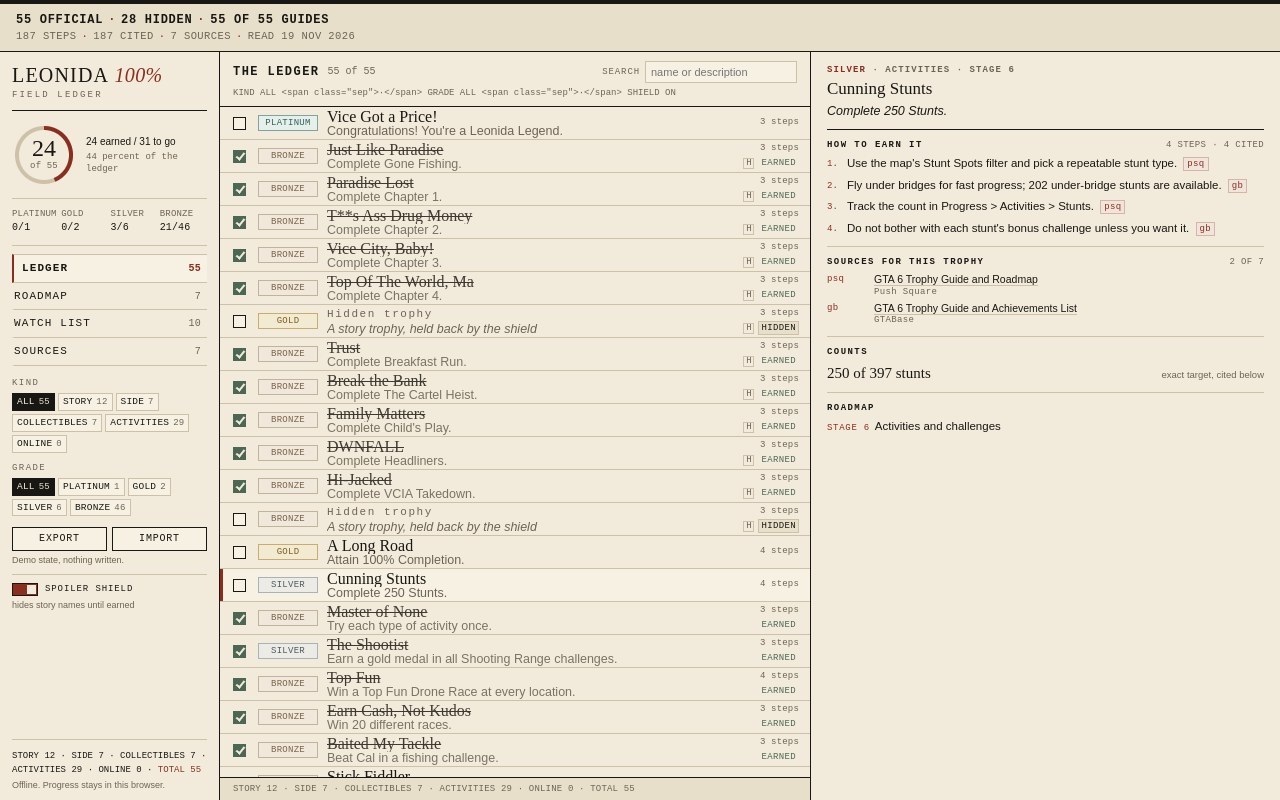
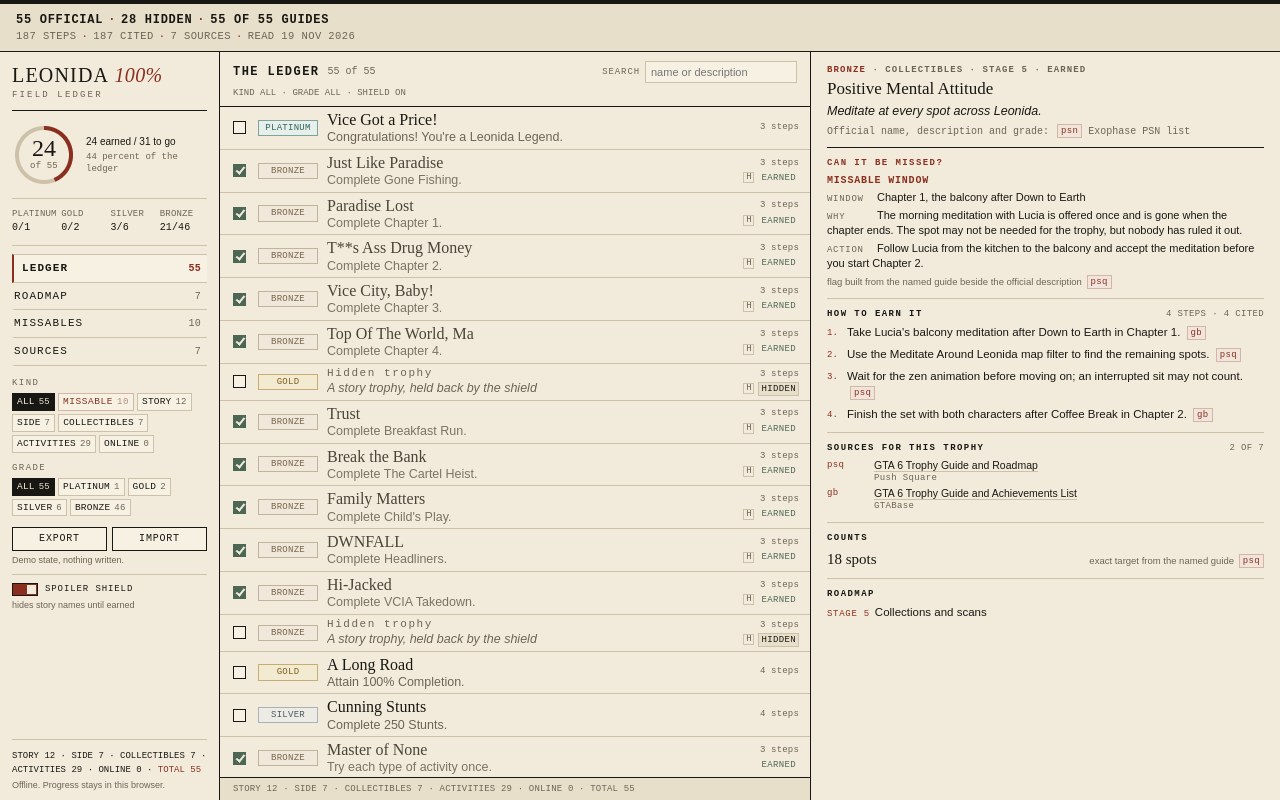
Cite every fact, answer missability per trophy, and load the app lighter
Per-fact source chips on the official line, count line and steps; a MISSABLE
filter chip and a Missables view with window, reason and action for each of the
ten watch rows; export and import pinned in the rail; shots.js loaded only for
captures; refreshed screenshots.

diff --git a/app/js/views.js b/app/js/views.js
@@ -38,13 +38,14 @@ function ringSvg(earned, total) {
 }
 
 /** The rail's chips: a computed count on each, the active one filled. */
-function chipRow(model, state, keys, group) {
+function chipRow(model, state, keys, group, afterAll = '') {
   const total = model.figures.total;
   const chips = [`all`].concat(keys).map((key) => {
     const active = state[group] === key;
     const label = key === 'all' ? 'ALL' : group === 'kind' ? kindLabel(key) : gradeLabel(key);
     const count = key === 'all' ? total : group === 'kind' ? model.figures.byKind[key] || 0 : model.figures.byGrade[key] || 0;
-    return `<button class="chip${active ? ' active' : ''}" type="button" data-act="${group}" data-value="${esc(key)}">${esc(label)}<span class="chip-n">${count}</span></button>`;
+    const chip = `<button class="chip${active ? ' active' : ''}" type="button" data-act="${group}" data-value="${esc(key)}">${esc(label)}<span class="chip-n">${count}</span></button>`;
+    return key === 'all' ? chip + afterAll : chip;
   });
   return chips.join('');
 }
@@ -67,12 +68,15 @@ export function renderRail(model, state, shown) {
     `<span class="kind-total">TOTAL ${total}</span>`
   ].join(` ${SEP} `);
 
+  const watchCount = model.trophies.filter((trophy) => model.watchByTrophy.has(trophy.name)).length;
+  const missableChip = `<button class="chip chip-missable${state.missable ? ' active' : ''}" type="button" data-act="missable">MISSABLE<span class="chip-n">${watchCount}</span></button>`;
+
   return {
     ring: ringSvg(earned, total),
     progressLine: `${earned} earned / ${total - earned} to go`,
     progressOpen: `${percent(earned, total)} percent of the ledger`,
     tallies,
-    kindChips: chipRow(model, state, ['story', 'side', 'collectibles', 'activities', 'online'], 'kind'),
+    kindChips: chipRow(model, state, ['story', 'side', 'collectibles', 'activities', 'online'], 'kind', missableChip),
     gradeChips: chipRow(model, state, ['platinum', 'gold', 'silver', 'bronze'], 'grade'),
     kindLine,
     shown,
@@ -132,9 +136,10 @@ export function ledgerFoot(model) {
 
 export function activeLine(state) {
   const parts = [`KIND ${state.kind.toUpperCase()}`, `GRADE ${state.grade.toUpperCase()}`];
+  if (state.missable) parts.push('MISSABLE');
   if (state.q.trim() !== '') parts.push(`SEARCH ${state.q.trim().toUpperCase()}`);
   parts.push(state.spoiler ? 'SHIELD ON' : 'SHIELD OFF');
-  return parts.join(` ${SEP} `);
+  return parts.join(' \u00b7 ');
 }
 
 function sourceRow(model, id) {
@@ -150,15 +155,47 @@ function sourceRow(model, id) {
   ].join('');
 }
 
+/** The guide that carries a fact: psq first, then gb, then the caller's fallback. */
+function guideId(trophy, fallback = 'gb') {
+  const sources = trophy.sources || [];
+  if (sources.includes('psq')) return 'psq';
+  if (sources.includes('gb')) return 'gb';
+  if (fallback === 'first') return sources[0] || 'gb';
+  return fallback;
+}
+
 function countSection(trophy) {
   const label = trophy.count ? esc(trophy.count) : 'Not yet confirmed';
   const note = trophy.count
-    ? 'exact target, cited below'
+    ? `exact target from the named guide <span class="src-chip">${esc(guideId(trophy, 'psnp'))}</span>`
     : `no number in the captured sources <span class="src-chip">${esc(trophy.sources[0] || 'gb')}</span>`;
   return [
     '<div class="section">',
     '<h3 class="section-title">COUNTS</h3>',
     `<div class="count-block"><span class="count-value">${label}</span><span class="count-note">${note}</span></div>`,
+    '</div>'
+  ].join('');
+}
+
+/** The one-line missable answer, with the named guide it was drawn from. */
+function missableSection(trophy, watch) {
+  if (watch) {
+    return [
+      '<div class="section missable-section">',
+      '<h3 class="section-title">CAN IT BE MISSED?</h3>',
+      '<p class="missable-answer">MISSABLE WINDOW</p>',
+      `<p class="missable-row"><span class="missable-key">WINDOW</span>${esc(watch.window)}</p>`,
+      `<p class="missable-row"><span class="missable-key">WHY</span>${esc(watch.why)}</p>`,
+      `<p class="missable-row"><span class="missable-key">ACTION</span>${esc(watch.action)}</p>`,
+      `<p class="missable-source">flag built from the named guide beside the official description <span class="src-chip">${esc(guideId(trophy, 'gb'))}</span></p>`,
+      '</div>'
+    ].join('');
+  }
+  return [
+    '<div class="section missable-section">',
+    '<h3 class="section-title">CAN IT BE MISSED?</h3>',
+    '<p class="missable-answer quiet">No missable window in the official description. <span class="src-chip">psn</span></p>',
+    '<p class="missable-source">Check the window before the chapter ends if a guide adds one later.</p>',
     '</div>'
   ].join('');
 }
@@ -216,7 +253,9 @@ export function renderDetail(model, state, rows) {
     `<p class="eyebrow"><span class="say-grade">${gradeLabel(trophy.grade)}</span> ${SEP} ${kindLabel(trophy.kind)} ${SEP} STAGE ${trophy.stage}${earned ? ` ${SEP} EARNED` : ''}</p>`,
     `<h2 class="trophy-name">${esc(trophy.name)}</h2>`,
     `<p class="trophy-desc">${esc(trophy.description)}</p>`,
+    '<p class="fact-line">Official name, description and grade: <span class="src-chip">psn</span> Exophase PSN list</p>',
     '</header>',
+    missableSection(trophy, watch),
     '<div class="section">',
     `<h3 class="section-title">HOW TO EARN IT<span class="aside">${trophy.steps.length} STEPS ${SEP} ${cited} CITED</span></h3>`,
     `<ol class="steps">${steps}</ol>`,
@@ -226,17 +265,6 @@ export function renderDetail(model, state, rows) {
     `<div class="src-rows">${sources}</div>`,
     '</div>'
   ];
-
-  if (watch) {
-    parts.push(
-      '<div class="section"><div class="watch-block">',
-      '<p class="watch-title">WHEN TO WATCH</p>',
-      `<p class="watch-row"><span class="watch-key">WINDOW</span>${esc(watch.window)}</p>`,
-      `<p class="watch-row"><span class="watch-key">WHY</span>${esc(watch.why)}</p>`,
-      `<p class="watch-row"><span class="watch-key">ACTION</span>${esc(watch.action)}</p>`,
-      '</div></div>'
-    );
-  }
 
   parts.push(countSection(trophy));
   parts.push(roadmapSection(model, trophy));
@@ -285,23 +313,24 @@ export function renderWatch(model, state) {
     return [
       '<tr>',
       `<td class="cell-name">${esc(row.name)}</td>`,
-      `<td class="cell-status${missable ? ' hot' : ''}">${missable ? 'POSSIBLY MISSABLE' : 'EASY TO LOSE TRACK'}</td>`,
+      `<td class="cell-status${missable ? ' hot' : ''}">${missable ? 'POSSIBLY MISSABLE' : 'AT RISK'}</td>`,
       `<td class="cell-window">${esc(row.window)}</td>`,
       `<td>${esc(row.why)}</td>`,
       `<td>${esc(row.action)}</td>`,
+      `<td class="cell-source"><span class="src-chip">${esc(guideId(row.trophy || { sources: [] }, 'first'))}</span></td>`,
       '</tr>'
     ].join('');
   }).join('');
 
   return [
     '<div class="view-head">',
-    '<h2 class="view-title">Watch list</h2>',
-    `<p class="view-note">${model.watch.length} FLAGS ${SEP} ${model.figures.total} TROPHIES</p>`,
+    '<h2 class="view-title">Missable trophies</h2>',
+    `<p class="view-note">${model.watch.length} FLAGS ${SEP} 1 POSSIBLY MISSABLE ${SEP} 9 AT RISK</p>`,
     '</div>',
     '<p class="view-lede">One of the ten is possibly missable and the other nine are easy to lose track of. The official descriptions mark no trophy as missable, so these are watch flags rather than confirmed misses.</p>',
     '<table class="ledger-table">',
-    '<colgroup><col style="width:17.6%"><col style="width:9%"><col style="width:17.4%"><col style="width:27%"><col style="width:29%"></colgroup>',
-    '<thead><tr><th>Trophy</th><th>Status</th><th>Window</th><th>Why it is easy to miss</th><th>What to do</th></tr></thead>',
+    '<colgroup><col style="width:15.5%"><col style="width:11.5%"><col style="width:15%"><col style="width:24%"><col style="width:25%"><col style="width:9%"></colgroup>',
+    '<thead><tr><th>Trophy</th><th>Status</th><th>Window</th><th>Why it is easy to miss</th><th>What to do</th><th>Source</th></tr></thead>',
     `<tbody>${rows}</tbody>`,
     '</table>',
     '<p class="view-foot">Status follows the missable flag in the trophy data. Names join the ledger by exact official spelling.</p>'

diff --git a/app/style.css b/app/style.css
@@ -151,7 +151,7 @@ body.mode-full .ledger { display: none; }
 }
 .nav-row.active .nav-count { color: var(--accent); }
 
-.filters { padding: 11px 0 0; }
+.filters { padding: 11px 0 0; flex: none; }
 .filter-row { margin-bottom: 9px; }
 .filter-label {
   font-family: var(--mono); font-size: 9px; letter-spacing: 0.16em;
@@ -168,8 +168,12 @@ body.mode-full .ledger { display: none; }
 .chip .chip-n { font-size: 9px; color: var(--muted); }
 .chip.active { background: var(--ink); color: var(--paper); border-color: var(--ink); }
 .chip.active .chip-n { color: var(--paper-sunk); }
+.chip.chip-missable { color: var(--accent); border-color: #d3b6a8; letter-spacing: 0.06em; }
+.chip.chip-missable .chip-n { color: #b08a7c; }
+.chip.chip-missable.active { color: var(--paper); border-color: var(--ink); }
+.chip.chip-missable.active .chip-n { color: var(--paper-sunk); }
 
-.io { padding: 2px 0 0; }
+.io { padding: 2px 0 0; flex: none; }
 .io-buttons { display: flex; gap: 5px; }
 .io-btn {
   flex: 1; font-family: var(--mono); font-size: 10px; letter-spacing: 0.08em;
@@ -181,7 +185,7 @@ body.mode-full .ledger { display: none; }
 .io-status { font-size: 9px; color: var(--muted); margin-top: 4px; min-height: 12px; line-height: 1.25; }
 .io-status.bad { color: var(--accent); }
 
-.spoiler { border-top: 1px solid var(--rule); margin-top: 7px; padding-top: 8px; }
+.spoiler { border-top: 1px solid var(--rule); margin-top: 7px; padding-top: 8px; flex: none; }
 .switch { display: flex; align-items: center; gap: 7px; width: 100%; }
 .switch-track {
   width: 26px; height: 13px; border: 1px solid var(--ink);
@@ -238,8 +242,8 @@ body.mode-full .ledger { display: none; }
   grid-template-columns: 16px 60px minmax(0, 1fr) 104px;
   align-items: center;
   gap: 0 9px;
-  height: var(--row-h);
-  padding: 0 11px 0 13px;
+  min-height: var(--row-h);
+  padding: 3px 11px 3px 13px;
   border-bottom: 1px solid var(--rule);
   cursor: pointer;
   position: relative;
@@ -278,17 +282,18 @@ body.mode-full .ledger { display: none; }
 .row-text { display: block; min-width: 0; overflow: hidden; }
 .row-name {
   display: block;
-  font-family: var(--display); font-size: 16px; line-height: 17px;
+  font-family: var(--display); font-size: 16px; line-height: 1.2;
+  margin-bottom: 1px;
   white-space: nowrap; overflow: hidden; text-overflow: ellipsis;
 }
 .row-desc {
   display: block;
-  font-size: 12.5px; line-height: 13px; color: var(--muted);
+  font-size: 12.5px; line-height: 1.25; color: var(--muted);
   white-space: nowrap; overflow: hidden; text-overflow: ellipsis;
 }
 .row.masked .row-name { font-family: var(--mono); font-size: 11px; letter-spacing: 0.14em; color: var(--muted); }
 .row.masked .row-desc { font-style: italic; }
-.row.earned .row-name { text-decoration: line-through; text-decoration-thickness: 1px; color: #3f3a31; }
+.row.earned .row-name { color: #4a4438; }
 .row.earned .row-desc { color: #7a7263; }
 
 .row-meta { display: flex; flex-direction: column; align-items: flex-end; gap: 2px; min-width: 0; }
@@ -357,6 +362,29 @@ body.mode-full .ledger { display: none; }
   white-space: nowrap; margin-left: 3px; letter-spacing: 0.04em;
   display: inline-block; line-height: 12px; vertical-align: 1px;
 }
+
+.fact-line {
+  font-family: var(--mono); font-size: 10px; color: var(--muted);
+  line-height: 1.3; margin-top: 4px;
+}
+.fact-line .src-chip { margin-left: 2px; }
+
+.missable-section .section-title { color: var(--accent); }
+.missable-answer {
+  font-family: var(--mono); font-size: 10px; font-weight: 700;
+  letter-spacing: 0.08em; color: var(--accent); margin-bottom: 3px;
+}
+.missable-answer.quiet {
+  font-family: var(--body); font-size: 11px; font-weight: 400;
+  letter-spacing: 0; color: var(--muted);
+}
+.missable-row { font-size: 11px; line-height: 1.35; margin-bottom: 3px; }
+.missable-key {
+  font-family: var(--mono); font-size: 9px; letter-spacing: 0.08em;
+  color: var(--muted); display: inline-block; min-width: 50px;
+}
+.missable-source { font-size: 9.5px; color: var(--muted); line-height: 1.3; margin-top: 4px; }
+.missable-source .src-chip { margin-left: 2px; }
 
 .src-rows { display: flex; flex-direction: column; gap: 3px; }
 .src-row { font-size: 10.5px; line-height: 1.3; display: grid; grid-template-columns: 42px minmax(0, 1fr); gap: 5px; }
@@ -464,7 +492,7 @@ body.mode-full .ledger { display: none; }
 }
 .ledger-table tr:last-child td { border-bottom: 1px solid var(--ink); }
 .ledger-table .cell-name { font-family: var(--display); font-size: 12.5px; line-height: 1.2; }
-.ledger-table .cell-status { font-family: var(--mono); font-size: 9px; letter-spacing: 0.06em; text-transform: uppercase; }
+.ledger-table .cell-status { font-family: var(--mono); font-size: 9px; letter-spacing: 0.06em; text-transform: uppercase; white-space: nowrap; }
 .ledger-table .cell-status.hot { color: var(--accent); }
 .ledger-table .cell-window { font-family: var(--mono); font-size: 9.5px; color: var(--muted); line-height: 1.35; }
 .ledger-table .cell-id { font-family: var(--mono); font-size: 9px; color: var(--accent); letter-spacing: 0.04em; }
@@ -472,6 +500,7 @@ body.mode-full .ledger { display: none; }
 .ledger-table .cell-url a { border-bottom-color: var(--rule); }
 .ledger-table .cell-count { font-family: var(--mono); font-size: 9.5px; text-align: right; white-space: nowrap; }
 .ledger-table .cell-support { font-size: 10.5px; }
+.ledger-table .cell-source { white-space: nowrap; }
 .cell-pub { display: block; font-family: var(--mono); font-size: 9px; color: var(--muted); letter-spacing: 0.04em; margin-top: 1px; }
 
 @media print {

diff --git a/app/js/app.js b/app/js/app.js
@@ -14,8 +14,6 @@ import {
   renderSources
 } from './views.js';
 import { readProgress, writeProgress, parseImport, downloadExport } from './store.js';
-import { applyPreset } from './shots.js';
-import { writeProbe } from './probe.js';
 
 const state = {
   view: 'ledger',
@@ -24,6 +22,7 @@ const state = {
   q: '',
   selected: 0,
   spoiler: true,
+  missable: false,
   earned: new Set(),
   revealed: 0,
   demo: false
@@ -165,6 +164,9 @@ function wire() {
     } else if (act === 'view') {
       state.view = hit.dataset.view;
       render();
+    } else if (act === 'missable') {
+      state.missable = !state.missable;
+      render();
     } else if (act === 'spoiler') {
       state.spoiler = !state.spoiler;
       state.revealed = 0;
@@ -215,7 +217,11 @@ async function boot() {
     return;
   }
   const preset = params.get('shot');
-  const applied = preset ? applyPreset(preset, model, state) : false;
+  let applied = false;
+  if (preset) {
+    const { applyPreset } = await import('./shots.js');
+    applied = applyPreset(preset, model, state);
+  }
   if (!applied) {
     state.earned = new Set(readProgress(model.trophies));
     state.selected = model.trophies.length > 0 ? model.trophies[0].id : 0;
@@ -224,7 +230,6 @@ async function boot() {
   setStatus(state.demo ? 'Demo state, nothing written.' : 'Progress saved in this browser.');
   wire();
   render();
-  if (params.has('probe')) requestAnimationFrame(() => writeProbe(model, state));
 }
 
 boot();

diff --git a/app/js/shots.js b/app/js/shots.js
@@ -47,8 +47,9 @@ export const PRESETS = {
     kind: 'all',
     grade: 'all',
     query: '',
-    select: 'Cunning Stunts',
-    spoiler: true
+    select: 'Positive Mental Attitude',
+    spoiler: true,
+    missable: false
   },
   collect: {
     earned: EARNED_COLLECT,
@@ -57,7 +58,8 @@ export const PRESETS = {
     grade: 'all',
     query: '',
     select: 'You WAiNKer!',
-    spoiler: true
+    spoiler: true,
+    missable: false
   },
   roadmap: {
     earned: EARNED_LEDGER,
@@ -66,7 +68,8 @@ export const PRESETS = {
     grade: 'all',
     query: '',
     select: 'Cunning Stunts',
-    spoiler: true
+    spoiler: true,
+    missable: false
   },
   watch: {
     earned: EARNED_LEDGER,
@@ -74,8 +77,9 @@ export const PRESETS = {
     kind: 'all',
     grade: 'all',
     query: '',
-    select: 'Cunning Stunts',
-    spoiler: false
+    select: 'Positive Mental Attitude',
+    spoiler: false,
+    missable: false
   }
 };
 
@@ -91,6 +95,7 @@ export function applyPreset(name, model, state) {
   state.grade = preset.grade;
   state.q = preset.query;
   state.spoiler = preset.spoiler;
+  state.missable = Boolean(preset.missable);
   const selected = model.byName.get(preset.select);
   state.selected = selected ? selected.id : model.trophies[0] ? model.trophies[0].id : 0;
   state.revealed = 0;

diff --git a/app/index.html b/app/index.html
@@ -42,7 +42,7 @@
         <span>ROADMAP</span><span class="nav-count" data-count="roadmap"></span>
       </button>
       <button class="nav-row" type="button" data-act="view" data-view="watch" id="nav-watch">
-        <span>WATCH LIST</span><span class="nav-count" data-count="watch"></span>
+        <span>MISSABLES</span><span class="nav-count" data-count="watch"></span>
       </button>
       <button class="nav-row" type="button" data-act="view" data-view="sources" id="nav-sources">
         <span>SOURCES</span><span class="nav-count" data-count="sources"></span>

diff --git a/app/js/data.js b/app/js/data.js
@@ -107,6 +107,7 @@ export function visibleTrophies(model, state) {
   return model.trophies.filter((trophy) => {
     if (state.kind !== 'all' && trophy.kind !== state.kind) return false;
     if (state.grade !== 'all' && trophy.grade !== state.grade) return false;
+    if (state.missable && !model.watchByTrophy.has(trophy.name)) return false;
     if (query !== '' && isShielded(trophy, state)) return false;
     if (query === '') return true;
     return trophy.name.toLowerCase().includes(query) || trophy.description.toLowerCase().includes(query);

diff --git a/app/js/store.js b/app/js/store.js
@@ -7,9 +7,9 @@ const FILE_NAME = 'leonida-100-progress.json';
 
 function storage() {
   try {
-    const probe = '__leonida_probe__';
-    window.localStorage.setItem(probe, '1');
-    window.localStorage.removeItem(probe);
+    const testKey = '__leonida_test__';
+    window.localStorage.setItem(testKey, '1');
+    window.localStorage.removeItem(testKey);
     return window.localStorage;
   } catch {
     return null;
